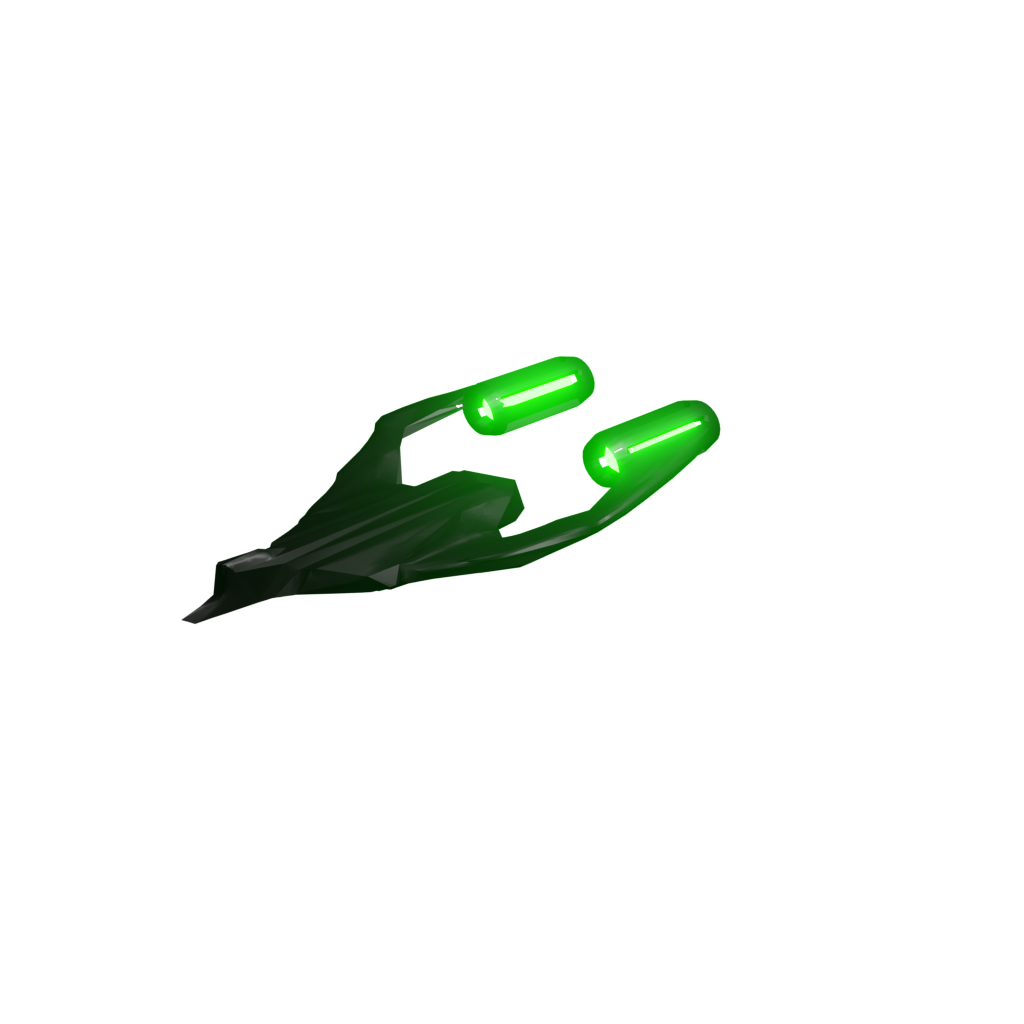
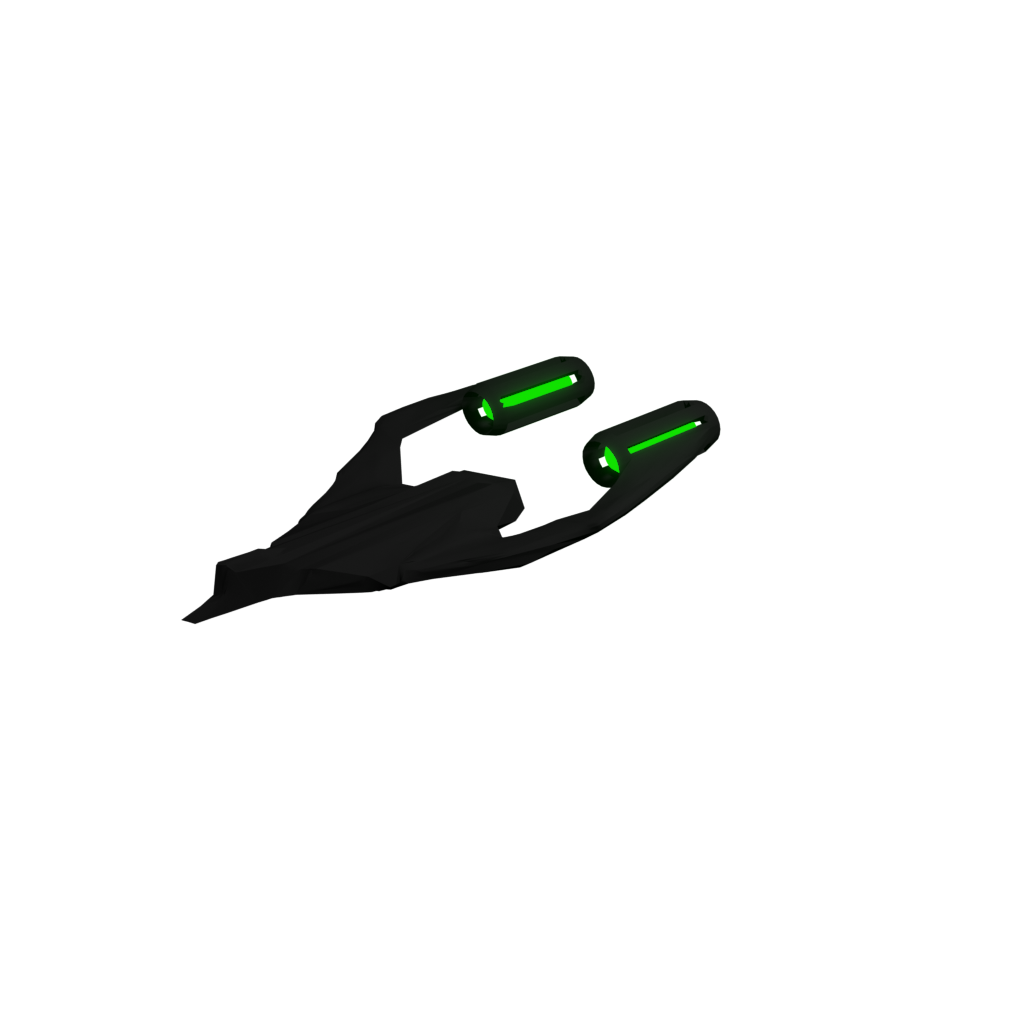
reworked the emissiveness update function

Changed region(s): [[0.2188, 0.3438, 0.7188, 0.5938], [0.1875, 0.5938, 0.2188, 0.625]]

diff --git a/src/spawner.rs b/src/spawner.rs
@@ -5,6 +5,7 @@ use crate::{
 };
 use bevy::{prelude::*, render::view::RenderLayers, scene::SceneInstance};
 use bevy_rapier3d::{prelude::*, rapier::prelude::ShapeType};
+use serde_json::Value;
 use std::collections::HashMap;
 use std::fmt;
 use std::fs::File;
@@ -46,6 +47,7 @@ pub struct UnitSpecifications {
 #[derive(Clone, Component)]
 pub struct UnitSpecification {
     file_path: String,
+    scene: String,
     pub icon_path: String,
     unit_name: String,
     movable: bool,
@@ -87,7 +89,8 @@ fn populate_units(app: &mut App) {
     unit_specifications.unit_specifications.insert(
         (Civilisation::GREEK, UnitType::CRUISER),
         UnitSpecification {
-            file_path: "../assets/3d_models/units/greek/fighter_01.gltf#Scene0".into(),
+            file_path: "./assets/3d_models/units/greek/fighter_01.gltf".into(),
+            scene: "Scene0".to_owned(),
             icon_path: "./3d_models/units/greek/greek_cruiser_thumbnail.png".into(),
             unit_name: "Andreia Class Cruiser".into(),
             movable: true,
@@ -103,7 +106,8 @@ fn populate_units(app: &mut App) {
     unit_specifications.unit_specifications.insert(
         (Civilisation::GREEK, UnitType::SPACESTATION),
         UnitSpecification {
-            file_path: "../assets/3d_models/buildings/greek/spacestation.gltf#Scene0".into(),
+            file_path: "./assets/3d_models/buildings/greek/spacestation.gltf".into(),
+            scene: "Scene0".to_owned(),
             icon_path: "./3d_models/buildings/greek/spacestation_thumbnail.png".into(),
             unit_name: "Akinetos Space Station".into(),
             movable: false,
@@ -168,7 +172,14 @@ fn spawn(
                                 spawn_request.location.z,
                             )
                             .with_scale(Vec3::splat(0.2)),
-                            scene: asset_server.load(&unit_specification.file_path),
+                            scene: asset_server.load(
+                                unit_specification
+                                    .file_path
+                                    .clone()
+                                    .replace("./assets/", "")
+                                    + "#"
+                                    + &unit_specification.scene,
+                            ),
                             ..default()
                         },
                         Selectable {},
@@ -221,6 +232,7 @@ fn spawn(
                         ));
                     })
                     .id();
+
                 commands.spawn((
                     EntityWrapper { entity: parent_id },
                     (*unit_specification).clone(),
@@ -234,104 +246,110 @@ fn spawn(
         // commands.entity(entity).remove::<InstanceSpawnRequest>();
     }
 }
+fn read_emissive_color(gltf_material: &Value) -> Option<Color> {
+    let mut emissiveness: u64 = 1;
+    let mut emissive_color: Color = Color::BLACK;
+    if let serde_json::Value::Object(map) = &gltf_material["extensions"] {
+        for (extension_name, extension) in map {
+            if extension_name != "KHR_materials_emissive_strength" {
+                continue;
+            }
+            if let serde_json::Value::Number(num) = &extension["emissiveStrength"] {
+                emissiveness = num.as_u64()? * 10;
+                return gltf_material["emissiveFactor"]
+                    .as_array()
+                    .as_ref()
+                    .map(|emissive_vals| {
+                        Color::rgb_linear(
+                            emissive_vals[0].as_f64().unwrap() as f32 * emissiveness as f32,
+                            emissive_vals[1].as_f64().unwrap() as f32 * emissiveness as f32,
+                            emissive_vals[2].as_f64().unwrap() as f32 * emissiveness as f32,
+                        )
+                    });
+            }
+        }
+    }
+    return None;
+}
 
 fn update_emissiveness(
     mut commands: Commands,
     unit_info: Query<(Entity, &EntityWrapper, &UnitSpecification)>,
-    material_handles: Query<(&Name, &Handle<StandardMaterial>)>,
+    mut material_handles: Query<(&Name, &mut Handle<StandardMaterial>)>,
     mut material_assets: ResMut<Assets<StandardMaterial>>,
     scene_instances: Query<&SceneInstance>,
     scene_spawner: Res<SceneSpawner>,
 ) {
     for (entity, entity_wrapper, info) in unit_info.iter() {
-        let mut file =
-            File::open(&info.file_path.split_once("#").unwrap().0.split_at(1).1).unwrap();
-        let mut contents: String = String::new();
-        match file.read_to_string(&mut contents) {
-            Ok(_) => {
-                let gltf_model: serde_json::Value = serde_json::from_str(&contents).unwrap();
-                let mut material_nr = 0;
-                let mut updated = true;
-                for material_str in gltf_model["materials"].as_array() {
-                    for material in material_str {
-                        let mesh_name: String = gltf_model["meshes"].as_array().unwrap()
-                            [material_nr]["name"]
-                            .to_string();
-                        let mut emissiveness: u64 = 1;
-                        let mut emissive_color: Color = Color::BLACK;
-                        if let serde_json::Value::Object(map) = &material["extensions"] {
-                            for (extension_name, extension) in map {
-                                if extension_name == "KHR_materials_emissive_strength" {
-                                    if let serde_json::Value::Number(num) =
-                                        &extension["emissiveStrength"]
-                                    {
-                                        emissiveness = num.as_u64().expect("No value found for emissiveness, despite KHR_materials_emissive_strength defined") * 10;
-                                        match &material["emissiveFactor"].as_array() {
-                                                    Some(emissive_vals) => {
-                                                        emissive_color = Color::rgb_linear(
-                                                            emissive_vals[0].as_f64().unwrap()
-                                                                as f32
-                                                                * emissiveness as f32,
-                                                            emissive_vals[1].as_f64().unwrap()
-                                                                as f32
-                                                                * emissiveness as f32,
-                                                            emissive_vals[2].as_f64().unwrap()
-                                                                as f32
-                                                                * emissiveness as f32,
-                                                        );
-                                                updated = false;
-                                                    },
-                                                    None => println!("No value found for emissiveness, despite KHR_materials_emissive_strength defined")
-                                                }
-                                    }
-                                }
-                            }
-                        }
-                        if emissiveness > 1 {
-                            match scene_instances.get(entity_wrapper.entity) {
-                                Ok(scene_instance) => {
-                                    // println!("Found scene instance");
-                                    for scene_entity in scene_spawner
-                                        .iter_instance_entities(**scene_instance.to_owned())
-                                    {
-                                        match material_handles.get(scene_entity) {
-                                            Ok((name, material_handle)) => {
-                                                if name.to_string() == mesh_name.trim_matches('"') {
-                                                    match material_assets.get_mut(material_handle) {
-                                                        Some(material) => {
-                                                            println!("{:#?}", material.emissive);
+        println!("{}", info.file_path);
+        let mut file = File::open(&info.file_path).unwrap();
 
-                                                            material.emissive = emissive_color;
-                                                            updated = true;
-                                                        }
-                                                        None => {
-                                                            println!("Invalid shader handle")
-                                                        }
-                                                    }
+        let mut contents: String = String::new();
+        if let Err(error) = file.read_to_string(&mut contents) {
+            debug!("Could not read file content to string due to: {:?}", error);
+            continue;
+        }
+        let gltf_model: serde_json::Value = serde_json::from_str(&contents).unwrap();
+        let mut material_nr = 0;
+        let mut updated = true;
+        if let Some(material_str) = gltf_model["materials"].as_array() {
+            for material in material_str {
+                // println!("{:?}", material);
+                let meshes: Vec<Value> = match gltf_model["meshes"].as_array() {
+                    Some(meshes) => meshes.to_owned(),
+                    None => Vec::new(),
+                };
+                if material_nr >= meshes.len() {
+                    material_nr += 1;
+                    continue;
+                }
+                let mesh_name: String = meshes[material_nr]["name"].to_string();
+                if let Some(emissive_color) = read_emissive_color(material) {
+                    updated = false;
+                    match scene_instances.get(entity_wrapper.entity) {
+                        Ok(scene_instance) => {
+                            for scene_entity in
+                                scene_spawner.iter_instance_entities(**scene_instance.to_owned())
+                            {
+                                match material_handles.get_mut(scene_entity) {
+                                    Ok((name, mut material_handle)) => {
+                                        if name.to_string() == mesh_name.trim_matches('"') {
+                                            match material_assets.get_mut(&material_handle) {
+                                                Some(material) => {
+                                                    println!(
+                                                        "Old material{:#?}",
+                                                        material.emissive
+                                                    );
+
+                                                    let mut new_material: StandardMaterial =
+                                                        material.clone();
+
+                                                    new_material.emissive = emissive_color;
+                                                    *material_handle =
+                                                        material_assets.add(new_material);
+
+                                                    updated = true;
                                                 }
-                                            }
-                                            Err(error) => {
-                                                println!(
-                                                    "No material attached to entity {:?}",
-                                                    error
-                                                )
+                                                None => {
+                                                    println!("Invalid shader handle")
+                                                }
                                             }
                                         }
                                     }
+                                    Err(error) => {
+                                        println!("No material attached to entity {:?}", error)
+                                    }
                                 }
-                                Err(error) => println!("No scene attached to entity {:?}", error),
                             }
                         }
-                        material_nr += 1;
+                        Err(error) => println!("No scene attached to entity {:?}", error),
                     }
                 }
-                if updated {
-                    commands.entity(entity).despawn_recursive();
-                }
-            }
-            Err(error) => {
-                println!("Could not read file {}", error)
+                material_nr += 1;
             }
         }
-    } //
+        if updated {
+            commands.entity(entity).despawn_recursive();
+        }
+    }
 }
